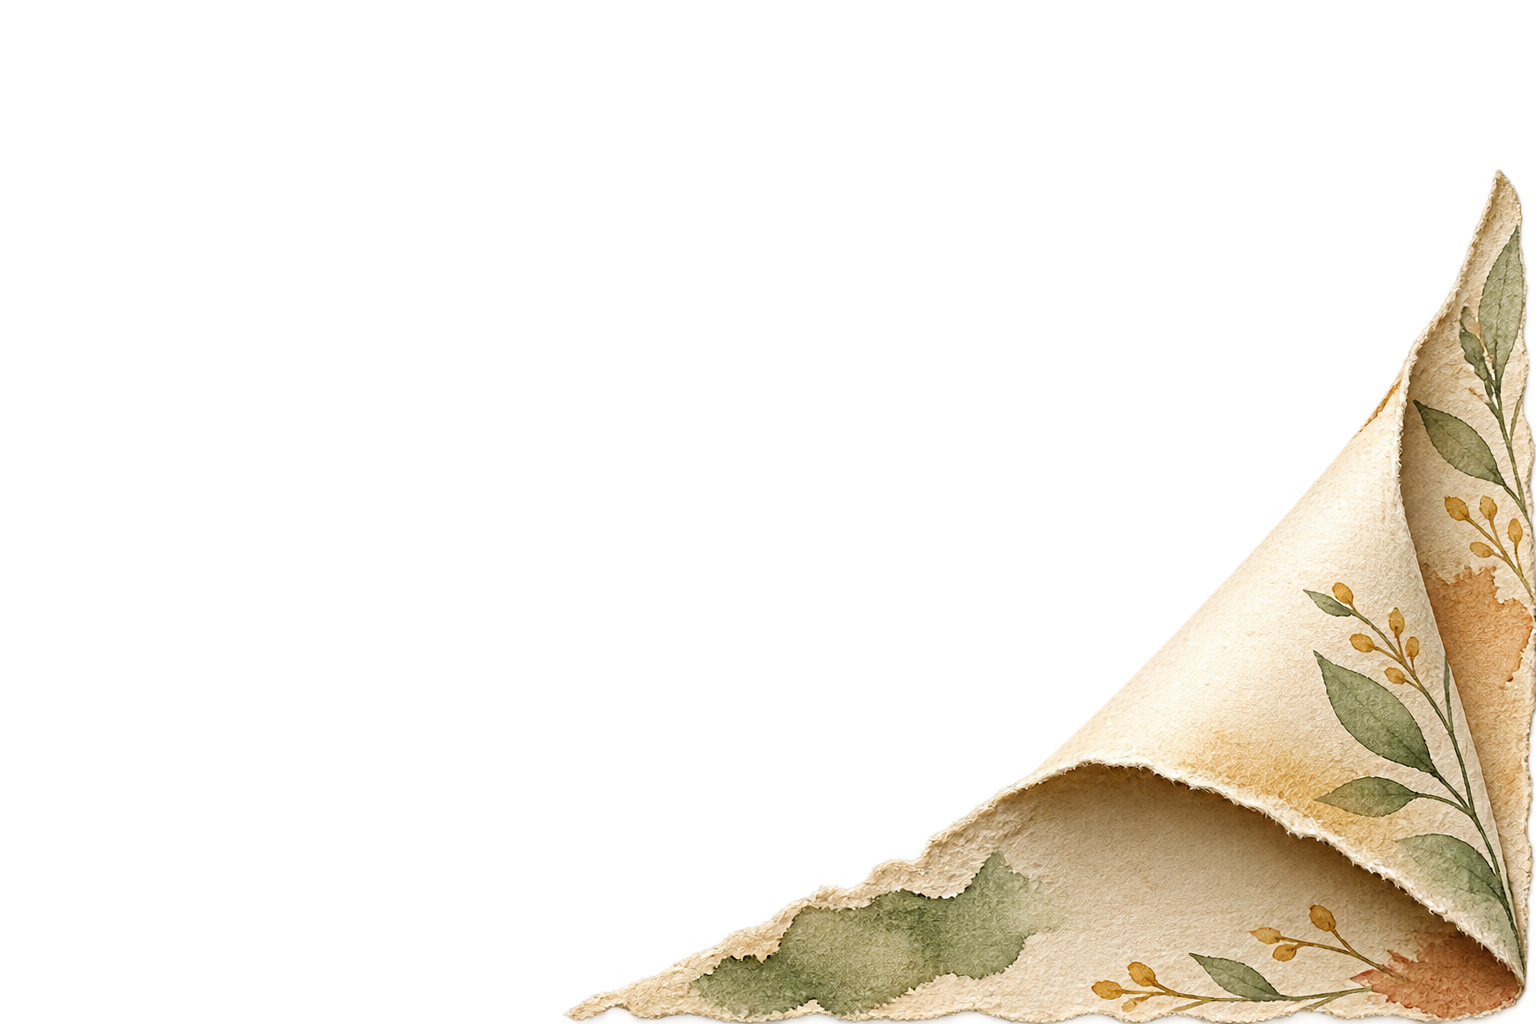
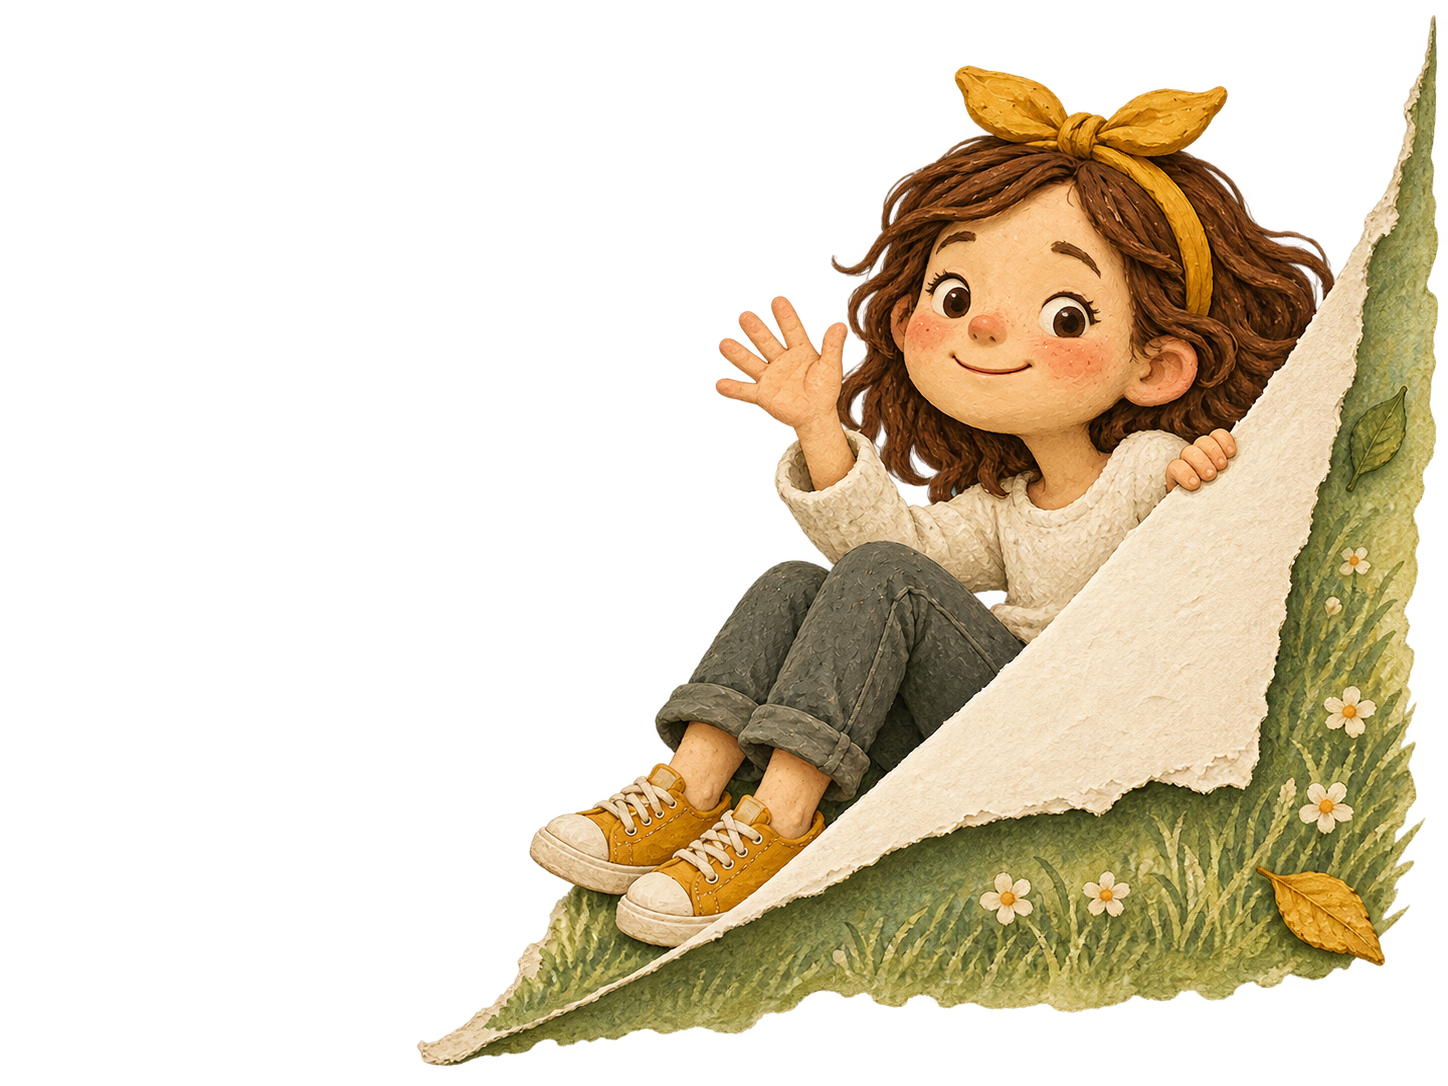
Connect homepage apples to work experiences

diff --git a/main.js b/main.js
@@ -6,21 +6,54 @@ const projects = [
   { name: "新项目占位苹果", type: "New Project · Coming soon", summary: "一个正在生长的新项目，等你来补充它的故事。", role: "待填写", problem: "待填写", solution: "待填写", tech: "待填写", result: "待填写", link: "", screenshots: ["./images/1.1.png", "./images/1.2.png", "./images/1.3.png", "./images/1.4.png"] }
 ];
 
+const experiences = [
+  {
+    period: "2026.01 — 2026.04",
+    company: "亚信科技",
+    role: "AI 应用开发实习生",
+    title: "大表哥｜企业 Excel 智能分析与核验平台",
+    tech: "Python、Node.js、SQLite、LLM、Agent Workflow、Tool Calling、Context Engineering、JSON Schema、本地化部署",
+    summary: "面向财务、薪酬、预算等复杂 Excel，参与构建从表格理解、公式核验、异常定位到报告交付的 Agent 工作流，解决大模型直接处理 Excel 时容易出现的上下文超限、业务误判和结果不可追溯问题。",
+    points: [
+      "Agent Workflow：参与将 Excel 分析拆分为结构识别、公式还原、语义判断、专家确认、结果验证和报告交付等阶段，明确 LLM、确定性程序和业务专家的职责边界。",
+      "Context Engineering：将 Workbook、Sheet、Cell、Formula、Reference 等底层证据整理为结构化上下文，使 Agent 只处理真正需要业务判断的问题。",
+      "Tool Calling 与权限控制：参与设计 Skill、TaskContract 和 Tool Bridge，通过工具白名单、路径校验、JSON Schema 参数校验和人工确认，限制 Agent 越权访问文件、修改数据库或发布业务结论。",
+      "复杂 Excel 受控验证覆盖 25 个 Sheet、8,025 个公式和 15,868 个重点单元格；4/4 类预置问题和 5/5 条检测路径全部命中。针对约 17 MB 公式密集工作簿，处理耗时由 73.5 秒降至 32.6 秒，内存占用由 1762 MB 降至 215 MB，并通过逐字节回归确认结果未发生变化。"
+    ]
+  },
+  {
+    period: "2026.04 — 2026.08",
+    company: "CSDN",
+    role: "AI 应用开发实习生（FDE）",
+    title: "企业 AI 应用落地与 Agent Workflow",
+    tech: "Agent Skill、Browser Automation、CLI、MCP、Tauri、Markdown、SQLite FTS5、Obsidian",
+    summary: "面向企业客户真实业务场景开展 AI 应用落地，参与需求访谈、流程梳理与技术方案设计，将人工经验流程、跨系统操作和业务规则抽象为可执行的 Agent Workflow。",
+    points: [
+      "支撑 2 个企业客户、23 个 AI 应用场景分析与方案落地，完成从需求分析、流程梳理到技术方案设计的协作。",
+      "参与企业级 Agent 应用架构设计与原型开发，根据业务复杂度选择 Agent Skill、CLI、浏览器自动化、MCP、Tauri 桌面端等技术方案，完成从技术验证到端侧交付。",
+      "封装可复用 Agent Skill 与 Browser Automation 组件，探索合同审核、业务系统操作等场景中的自然语言驱动自动化能力。",
+      "基于 Markdown、SQLite FTS5、Obsidian 与 MCP 搭建企业 AI 知识资产沉淀体系，归纳形成 6 类 AI 应用交付模式，提升后续场景复制效率。"
+    ]
+  }
+];
+
 const galleryImages = ["./images/2.1.png", "./images/2.2.png", "./images/2.3.png", "./images/2.4.png", "./images/2.5.png", "./images/1.1.png", "./images/1.2.png", "./images/1.3.png"];
 
 const dom = {
   projectIndex: document.getElementById("projectIndex"), projectModal: document.getElementById("projectModal"), closeProjectModal: document.getElementById("closeProjectModal"),
+  experienceModal: document.getElementById("experienceModal"), closeExperienceModal: document.getElementById("closeExperienceModal"),
   imageLightbox: document.getElementById("imageLightbox"), closeLightbox: document.getElementById("closeLightbox"), lightboxPrev: document.getElementById("lightboxPrev"), lightboxNext: document.getElementById("lightboxNext"), lightboxImage: document.getElementById("lightboxImage"),
   shotsSection: document.getElementById("projectShotsSection"), shotsGrid: document.getElementById("projectShotsGrid"), galleryTrack: document.getElementById("galleryTrack"), portraitImage: document.getElementById("portraitImage"),
   featuredCase: document.querySelector(".featured-case"), featuredKicker: document.querySelector(".featured-copy .eyebrow"), featuredTitle: document.querySelector(".featured-copy h3"), featuredSummary: document.querySelector(".featured-summary"), featuredRole: document.querySelector(".featured-role"), featuredSolution: document.querySelector(".featured-solution"), featuredResult: document.querySelector(".featured-result"), featuredButton: document.querySelector(".featured-copy [data-featured-project]")
 };
 
 const fields = { title: document.getElementById("projectTitle"), summary: document.getElementById("projectSummary"), role: document.getElementById("projectRole"), problem: document.getElementById("projectProblem"), solution: document.getElementById("projectSolution"), tech: document.getElementById("projectTech"), result: document.getElementById("projectResult"), link: document.getElementById("projectLink") };
+const experienceFields = { period: document.getElementById("experiencePeriod"), company: document.getElementById("experienceCompany"), role: document.getElementById("experienceRole"), title: document.getElementById("experienceTitle"), tech: document.getElementById("experienceTech"), summary: document.getElementById("experienceSummary"), points: document.getElementById("experiencePoints") };
 const lightbox = { shots: [], index: 0 };
 let featuredIndex = 0;
 
 function lockScroll(value) { document.body.classList.toggle("lock-scroll", value); }
-function anyPanelOpen() { return !dom.projectModal.classList.contains("hidden") || !dom.imageLightbox.classList.contains("hidden"); }
+function anyPanelOpen() { return !dom.projectModal.classList.contains("hidden") || !dom.experienceModal.classList.contains("hidden") || !dom.imageLightbox.classList.contains("hidden"); }
 
 function setFeaturedProject(index) {
   const project = projects[index]; if (!project) return;
@@ -69,17 +102,32 @@ function openProject(index) {
   renderShots(project); dom.projectModal.classList.remove("hidden"); lockScroll(true);
 }
 function closeProject() { dom.projectModal.classList.add("hidden"); lockScroll(anyPanelOpen()); }
+function openExperience(index) {
+  const experience = experiences[index]; if (!experience) return;
+  experienceFields.period.textContent = experience.period;
+  experienceFields.company.textContent = experience.company;
+  experienceFields.role.textContent = experience.role;
+  experienceFields.title.textContent = experience.title;
+  experienceFields.tech.textContent = experience.tech;
+  experienceFields.summary.textContent = experience.summary;
+  experienceFields.points.innerHTML = experience.points.map((point) => `<li>${point}</li>`).join("");
+  dom.experienceModal.classList.remove("hidden");
+  lockScroll(true);
+}
+function closeExperience() { dom.experienceModal.classList.add("hidden"); lockScroll(anyPanelOpen()); }
 function updateLightbox() { const count = lightbox.shots.length; if (!count) return; lightbox.index = (lightbox.index + count) % count; dom.lightboxImage.src = lightbox.shots[lightbox.index]; dom.lightboxImage.alt = `截图 ${lightbox.index + 1}`; }
 function openLightbox(shots, index) { lightbox.shots = shots; lightbox.index = index; updateLightbox(); dom.imageLightbox.classList.remove("hidden"); lockScroll(true); }
 function closeLightbox() { dom.imageLightbox.classList.add("hidden"); dom.lightboxImage.src = ""; lockScroll(anyPanelOpen()); }
 function changeLightbox(step) { if (lightbox.shots.length > 1) { lightbox.index += step; updateLightbox(); } }
 
 function bindEvents() {
-  dom.closeProjectModal.addEventListener("click", closeProject); dom.closeLightbox.addEventListener("click", closeLightbox); dom.lightboxPrev.addEventListener("click", () => changeLightbox(-1)); dom.lightboxNext.addEventListener("click", () => changeLightbox(1));
+  dom.closeProjectModal.addEventListener("click", closeProject); dom.closeExperienceModal.addEventListener("click", closeExperience); dom.closeLightbox.addEventListener("click", closeLightbox); dom.lightboxPrev.addEventListener("click", () => changeLightbox(-1)); dom.lightboxNext.addEventListener("click", () => changeLightbox(1));
   document.querySelectorAll("[data-close='project']").forEach((item) => item.addEventListener("click", closeProject)); document.querySelectorAll("[data-close='lightbox']").forEach((item) => item.addEventListener("click", closeLightbox));
-  document.addEventListener("click", (event) => { const item = event.target.closest("[data-featured-project]"); if (item) openProject(Number(item.dataset.featuredProject)); });
+  document.querySelectorAll("[data-close='experience']").forEach((item) => item.addEventListener("click", closeExperience));
+  document.querySelectorAll("[data-open-experience]").forEach((item) => item.addEventListener("click", () => openExperience(Number(item.dataset.openExperience))));
+  document.addEventListener("click", (event) => { const experienceItem = event.target.closest("[data-open-experience]"); if (experienceItem) { openExperience(Number(experienceItem.dataset.openExperience)); return; } const item = event.target.closest("[data-featured-project]"); if (item) openProject(Number(item.dataset.featuredProject)); });
   document.querySelectorAll("[data-open-about]").forEach((item) => item.addEventListener("click", () => document.getElementById("about")?.scrollIntoView({ behavior: "smooth" })));
-  document.addEventListener("keydown", (event) => { if (!dom.imageLightbox.classList.contains("hidden")) { if (event.key === "ArrowLeft") changeLightbox(-1); if (event.key === "ArrowRight") changeLightbox(1); if (event.key === "Escape") closeLightbox(); return; } if (event.key === "Escape" && !dom.projectModal.classList.contains("hidden")) closeProject(); });
+  document.addEventListener("keydown", (event) => { if (!dom.imageLightbox.classList.contains("hidden")) { if (event.key === "ArrowLeft") changeLightbox(-1); if (event.key === "ArrowRight") changeLightbox(1); if (event.key === "Escape") closeLightbox(); return; } if (event.key === "Escape" && !dom.experienceModal.classList.contains("hidden")) { closeExperience(); return; } if (event.key === "Escape" && !dom.projectModal.classList.contains("hidden")) closeProject(); });
 }
 
 function setupReveal() { const observer = new IntersectionObserver((entries) => entries.forEach((entry) => { if (entry.isIntersecting) { entry.target.classList.add("is-visible"); observer.unobserve(entry.target); } }), { threshold: 0.12 }); document.querySelectorAll(".reveal").forEach((element) => observer.observe(element)); }
@@ -140,7 +188,7 @@ function setupResponsiveInteractions() {
   const root = document.documentElement;
   const finePointer = window.matchMedia("(hover: hover) and (pointer: fine)");
   const heroScene = document.querySelector(".hero-scene");
-  const tooltipLabels = ["语境词汇学习系统", "游戏数字人音乐推荐模块"];
+  const tooltipLabels = experiences.map((experience) => `${experience.company} · ${experience.role}`);
 
   document.querySelectorAll(".scene-apple").forEach((apple, index) => {
     apple.dataset.tooltip = tooltipLabels[index] || "查看项目";

diff --git a/index.html b/index.html
@@ -5,7 +5,7 @@
     <meta name="viewport" content="width=device-width, initial-scale=1.0" />
     <meta name="theme-color" content="#f7efdd" />
     <title>穆莹 | AI Product Manager</title>
-    <link rel="stylesheet" href="./style.css?v=20261008interaction" />
+    <link rel="stylesheet" href="./style.css?v=20261008experience2" />
   </head>
   <body>
     <header class="site-nav">
@@ -23,7 +23,7 @@
         <div class="hero-scene" aria-label="树下的小女孩和苹果插画">
           <img class="scene-leaf scene-leaf-1" src="./images/layers/floating/leaf-02.png" alt="" aria-hidden="true" /><img class="scene-leaf scene-leaf-2" src="./images/layers/floating/leaf-07.png" alt="" aria-hidden="true" />
           <img class="scene-star scene-star-1" src="./images/layers/floating/star-03.png" alt="" aria-hidden="true" /><img class="scene-star scene-star-2" src="./images/layers/floating/star-06.png" alt="" aria-hidden="true" />
-          <button class="scene-apple scene-apple-1" type="button" data-featured-project="0" aria-label="打开语境词汇学习系统项目"><img src="./images/layers/apple.png" alt="" /></button><button class="scene-apple scene-apple-2" type="button" data-featured-project="1" aria-label="打开游戏数字人音乐推荐项目"><img src="./images/layers/apple.png" alt="" /></button>
+          <button class="scene-apple scene-apple-1" type="button" data-open-experience="0" aria-label="打开亚信科技实习经历"><img src="./images/layers/apple.png" alt="" /></button><button class="scene-apple scene-apple-2" type="button" data-open-experience="1" aria-label="打开 CSDN 实习经历"><img src="./images/layers/apple.png" alt="" /></button>
           <button class="scene-girl" type="button" data-open-about aria-label="打开关于我的介绍"><img src="./images/layers/girl.png" alt="树下休息的小女孩" /></button>
         </div>
         <div class="home-folio-mark" aria-hidden="true">✦</div><div class="scroll-note">SCROLL TO EXPLORE <span>↓</span></div>
@@ -47,9 +47,10 @@
       <section id="contact" class="contact-section page-section"><div class="ambient-drift ambient-contact" aria-hidden="true"><img src="./images/layers/floating/leaf-02.png" /><img src="./images/layers/floating/leaf-07.png" /><img src="./images/layers/floating/star-01.png" /><img src="./images/layers/floating/leaf-05.png" /><img src="./images/layers/floating/star-06.png" /><img src="./images/layers/floating/star-04.png" /><img src="./images/layers/floating/leaf-03.png" /><img src="./images/layers/floating/star-08.png" /><img src="./images/layers/floating/leaf-01.png" /><img src="./images/layers/floating/star-02.png" /></div><img class="contact-leaf" src="./images/layers/floating/leaf-08.png" alt="" aria-hidden="true" /><img class="contact-note-art" src="./images/layers/contact-note.png" alt="联系便签插画" aria-hidden="true" /><div class="section-heading"><span class="section-number">04</span><span class="section-name">CONTACT</span></div><div class="contact-layout reveal"><div><p class="eyebrow">LET’S MAKE SOMETHING</p><h2>期待与你一起，<br /><em>创造有意义的产品。</em></h2></div><div class="contact-details"><p>如果你正在寻找一位懂技术、懂用户，也愿意亲手把事情做成的 AI 产品经理，欢迎联系我。</p><a href="mailto:muying0125@163.com">muying0125@163.com <span>↗</span></a><a href="tel:15835206118">15835206118 <span>↗</span></a><a class="button button-red" href="./images/穆莹-简历.pdf" download>下载我的简历 <span>↓</span></a></div></div><footer><span>© 2026 Mu Ying</span><span>Made with curiosity &amp; care</span><a href="#home">BACK TO TOP ↑</a></footer></section>
     </main>
 
+    <div id="experienceModal" class="modal hidden" role="dialog" aria-modal="true" aria-labelledby="experienceTitle"><div class="modal-backdrop" data-close="experience"></div><article class="modal-card experience-card"><button class="close-btn" id="closeExperienceModal" type="button" aria-label="关闭实习经历详情">×</button><p class="modal-kicker">WORK EXPERIENCE</p><div class="experience-meta"><span id="experiencePeriod"></span><span id="experienceCompany"></span><span id="experienceRole"></span></div><h2 id="experienceTitle" class="modal-title"></h2><p id="experienceSummary" class="modal-summary"></p><div class="experience-tech"><span>技术栈</span><strong id="experienceTech"></strong></div><section class="experience-points"><h3>参与内容与成果</h3><ul id="experiencePoints"></ul></section></article></div>
     <div id="projectModal" class="modal hidden" role="dialog" aria-modal="true" aria-labelledby="projectTitle"><div class="modal-backdrop" data-close="project"></div><article class="modal-card"><button class="close-btn" id="closeProjectModal" type="button" aria-label="关闭项目详情">×</button><p class="modal-kicker">PROJECT CASE</p><h2 id="projectTitle" class="modal-title"></h2><p id="projectSummary" class="modal-summary"></p><dl class="detail-grid"><div><dt>我的角色</dt><dd id="projectRole"></dd></div><div><dt>背景 / 痛点</dt><dd id="projectProblem"></dd></div><div><dt>解决方案</dt><dd id="projectSolution"></dd></div><div><dt>技术栈</dt><dd id="projectTech"></dd></div><div><dt>成果 / 数据</dt><dd id="projectResult"></dd></div><div><dt>外部链接</dt><dd id="projectLink"></dd></div></dl><section id="projectShotsSection" class="project-shots hidden"><h3>截图 / 演示</h3><div id="projectShotsGrid" class="project-shots-grid"></div></section></article></div>
     <div id="imageLightbox" class="lightbox hidden" role="dialog" aria-modal="true" aria-label="截图放大预览"><div class="lightbox-backdrop" data-close="lightbox"></div><section class="lightbox-content"><button id="closeLightbox" class="close-btn lightbox-close" type="button" aria-label="关闭预览">×</button><button id="lightboxPrev" class="lightbox-nav prev" type="button" aria-label="上一张">‹</button><figure class="lightbox-figure"><img id="lightboxImage" src="" alt="项目截图放大预览" /></figure><button id="lightboxNext" class="lightbox-nav next" type="button" aria-label="下一张">›</button></section></div>
     <div class="page-turn-overlay" aria-hidden="true"><img src="./images/layers/paper/page-corner-turn.png" alt="" /></div>
-    <script src="./main.js?v=20261008interaction"></script>
+    <script src="./main.js?v=20261008experience"></script>
   </body>
 </html>

diff --git a/style.css b/style.css
@@ -882,3 +882,28 @@ body::after { content: ""; position: fixed; z-index: 1; inset: 0; pointer-events
   body::after { transition: none; }
   .click-ripple { animation: none; }
 }
+
+/* Experience modal for the two homepage apples. */
+.experience-card { width: min(980px, 92vw); }
+.experience-meta { display: flex; flex-wrap: wrap; gap: 9px; margin: 18px 0 9px; color: var(--muted); font-size: 12px; }
+.experience-meta span { padding: 6px 10px; border: 1px solid rgba(151, 111, 69, .28); border-radius: 999px; }
+.experience-meta span + span { color: var(--red); }
+.experience-card .modal-title { max-width: 780px; margin-top: 12px; }
+.experience-tech { display: grid; gap: 8px; margin-top: 25px; padding: 17px 0; border-top: 1px solid var(--line); border-bottom: 1px solid var(--line); }
+.experience-tech span, .experience-points h3 { color: var(--red); font-size: 11px; letter-spacing: .12em; }
+.experience-tech strong { color: #50645a; font-size: 13px; line-height: 1.75; font-weight: 500; }
+.experience-points { margin-top: 27px; }
+.experience-points h3 { margin: 0 0 13px; }
+.experience-points ul { display: grid; gap: 13px; margin: 0; padding-left: 20px; color: #50645a; font-size: 14px; line-height: 1.75; }
+.experience-points li::marker { color: var(--red); }
+@media (max-width: 800px) {
+  .experience-card { padding: 22px; }
+  .experience-meta { gap: 6px; }
+  .experience-meta span { font-size: 10px; }
+  .experience-card .modal-title { font-size: 29px; }
+  .experience-points ul { font-size: 13px; }
+}
+
+/* Keep the homepage foreground art clickable above the copy layer. */
+.hero-scene { z-index: 9; }
+.hero-scene .scene-girl, .hero-scene .scene-apple { pointer-events: auto; }
